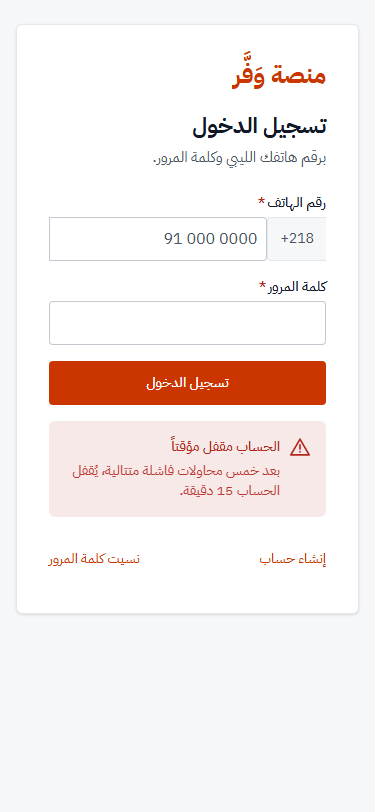
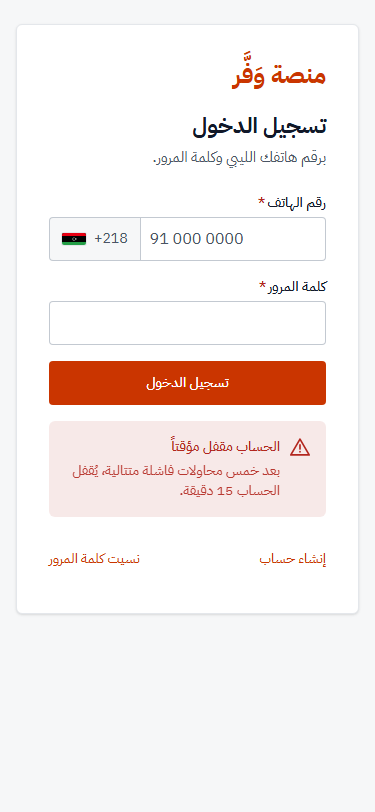
docs(design): recapture the phone-field references (ADR-181)

diff --git a/docs/decisions/volume-10.md b/docs/decisions/volume-10.md
@@ -1308,3 +1308,81 @@ inspection working copy is one bounded read. No schema change, and the format
 and safety suites keep their assertions. Review date: 2026-12-11 (R2's
 acceptance); R3's extraction work is the trigger to revisit the reading if a
 streaming parser enters the set.
+
+## ADR-181 — The phone field's country cell sits at the inline end, with the flag
+
+**Status**: Accepted — 2026-11-20. **Constitution version**: 7.1.0 (unchanged)
+**Owning directory**: `packages/ui/app/components/`, `packages/ui/public/flags/`
+**Owning feature**: R1 — identity and foundation.
+
+**Context.** R1's reference set renders the Libyan mobile number as two
+segments: a fixed `+218` cell and the number field. The lab drew the cell first
+in DOM order, so the RTL flex line placed it at the inline start (the right) and
+the number sat to its left. The owner asked for the cell at the inline end (the
+left) with a country flag. The old pair also inverted its corner radii: the
+input carries `direction: ltr`, so its logical `border-start-start-radius`
+resolves to the physical left, and the cell carried `dir="ltr"` for the same
+reason, so the group's outer corners were square and its inner corners rounded.
+Four pages — sign-up, sign-in, forgot step 1, and contact — carried identical
+copies of the markup and its styles. ADR-041 and FR-002/AC-002 forbid a
+dial-code selector, so the cell must stay a label: a chevron or a menu would
+reintroduce the selector the requirement removes.
+
+**Decision.**
+1. The phone control is one group of two segments: the number field at the
+   inline start (the right in RTL) and the country cell at the inline end (the
+   left). The cell closes the group and owns its outer corners.
+2. The cell carries the Libyan flag at its outer edge and the `+218` code next
+   to the divider. The flag is decorative (`alt=""`, and the cell is
+   `aria-hidden="true"`); the input keeps the label and the accessible name.
+   The flag is a vendored SVG (`packages/ui/public/flags/ly.svg`, public
+   domain, geometry untouched), not a font glyph and not an emoji.
+3. The number is one Latin run: the input is `direction: ltr` with
+   `text-align: start`, so the digits begin beside the cell and the group reads
+   `+218 91 000 0000`. The placeholder stays `91 000 0000`, and the input
+   carries `autocomplete="tel-national"` because the cell, not the field,
+   holds the country code — the contract's field rule
+   (`specs/001-identity-foundation/contracts/ui-contracts.md` §3.2) already
+   states both values.
+4. The cell is a label, never a selector: no chevron, no menu, no dial-code
+   choice (ADR-041; FR-002, AC-002).
+5. The divider is the field's own ring. The cell drops the border on that side
+   and uses the ring's tone (`--ui-border-accented`) for its other three
+   sides. Outer corners are rounded and inner corners square. Because logical
+   radii resolve against each element's own `direction`, each rule names the
+   side in that element's own axis: the input (`ltr`) squares its inline-start
+   corners, and the cell (`rtl`) rounds its inline-end corners.
+6. One component, `WfPhoneField`, replaces the four copies. Each page keeps its
+   `UFormField` and passes its model. The read-only displays (forgot step 2 and
+   the profile) are not part of the group and do not change.
+7. The reference set: the eleven images that show the field — nine R1 and the
+   two R11 contact captures — were recaptured on 2026-11-20 with the same
+   names, dimensions, URLs, and capture method. The four R1 done captures are
+   byte-identical. The pixel diff is confined to the phone group's box in all
+   eleven, so no other block moved.
+
+**Alternatives considered.**
+- *Keeping the cell at the inline start.* Rejected by the owner: the group then
+  reads `91 000 0000 +218`, and the flag would sit between the number and the
+  page edge instead of closing the control.
+- *A third segment for the flag, outside the cell.* Rejected: it adds a border
+  and a second divider for a decoration, and it reads as a second control.
+- *A native select or a chevron on the cell.* Rejected: FR-002/AC-002 remove
+  the dial-code selector, and a static cell with no affordance is the only
+  shape that does not imply one (ADR-041).
+- *A flag glyph or an emoji.* Rejected: Principle V forbids emoji, and an icon
+  set glyph is not a flag.
+- *Hiding the flag below a width.* Rejected: the cell has room at 375 (90.61px
+  wide), and the flag is the only country cue in a Libya-only product.
+
+**Consequences and migration/backfill.** The lab carried four copies of the
+markup and its styles — sign-up, sign-in, forgot step 1, and contact — and
+`WfPhoneField` replaces all four. The product carries three copies today, in
+`apps/web/app/components/auth/` (`SignUpForm.vue`, `SignInForm.vue`, and
+`RecoveryForm.vue`); all three already set `autocomplete="tel-national"`, and
+they take the group's order, flag, and radius rules from the same component when
+the product adopts it. No schema, API, or copy change. The reference manifest
+marks the eleven recaptured images with `recaptured`; the four done captures
+keep their 2026-10-27 date. ADR-041 is annotated by this record, not superseded.
+Review date: 2026-12-11 (R2's acceptance), or earlier if the conformance gate's
+baseline chain (ADR-129) reports a phone-group difference.

diff --git a/README.md b/README.md
@@ -21,7 +21,7 @@ continuous-integration gate exist and run; later slices build on them.
 | `docs/capacity-model.md` | The six-month load and ingestion envelope, the quota model, the deployment shape, and the verification plan (ADR-117, ADR-119, ADR-121, ADR-122). Planning authority; the constitution wins on every conflict. |
 | `docs/pdf-sample-analysis.md` | The preliminary 19-file PDF sample evidence: size, pages, text-layer quality, rows per page, OCR benchmark, and extraction problems (ADR-119). Evidence, not a source of rules. |
 | `docs/design/` | The Precision design contract's slice map and reference screenshots: 17 slices and 28 pages, with the 11 administrator pages marked as composed from the contract (ADR-128, ADR-129); the adopted departures — part-family cards, the retention trigger, and the shell's scroll-hide bar — are ADR-130, ADR-131, and ADR-132; the outline icon cut and the light default are ADR-137. Reference, not a visual baseline. |
-| `docs/DECISIONS.md` | The decision register's index and reading protocol (ADR-001 … ADR-180); the records with their alternatives and rationale live in `docs/decisions/volume-NN.md`. |
+| `docs/DECISIONS.md` | The decision register's index and reading protocol (ADR-001 … ADR-181); the records with their alternatives and rationale live in `docs/decisions/volume-NN.md`. |
 | `ROADMAP.md` | The MVP slice order. Names and orders slices; does not design them. |
 | `AGENTS.md` | Operating instructions for agent assistants. |
 | `governance-drift-check.mjs` | The committed read-only drift check: the two version sources, every live ADR range string, the decision-register volumes and their caps, the upstream manifest hashes, the two integrations, the structural counts the governance text states in prose, the design evidence's registration and citation, the template load map, the ADR index's constitution-version column, and the absence of the removed stylesheet and its constitution section. Runs on commit via `.githooks/pre-commit`; run it directly with `node governance-drift-check.mjs`. |
@@ -61,7 +61,7 @@ the project's binding templates and must not be replaced with the core ones.
 
 **Governance drift check.** `node governance-drift-check.mjs` (repository root)
 verifies the invariants the governance set cannot verify by discipline: the two
-version sources including the amended date, every live `ADR-001 … ADR-180` range
+version sources including the amended date, every live `ADR-001 … ADR-181` range
 string (in the required files, in the top-level `docs/` files, in the two Arabic
 mirrors, in the template overrides, and in the feature specifications), every ADR
 index row's anchor against its heading in the volume that holds it and every

diff --git a/docs/design/slice-map.md b/docs/design/slice-map.md
@@ -124,9 +124,10 @@ slice but no page here renders it.
 page title, one form card, and the links to the other bare pages (sign-in
 carries two, to sign-up and password recovery; sign-up and password recovery
 each carry one, back to sign-in). Sign Up carries the
-full name, the Libyan mobile number with a fixed `+218` and no dial-code
-selector, the password, the city combobox, and the optional shop name, then the
-one-time-code step and the done state. Sign In carries the mobile number and
+full name, the Libyan mobile number as one group — the field at the inline
+start, a fixed `+218` cell with the Libyan flag at the inline end, and no
+dial-code selector — the password, the city combobox, and the optional shop
+name, then the one-time-code step and the done state. Sign In carries the mobile number and
 the password, with the uniform failed-sign-in message. Forgot Password carries
 the mobile number, the code step, the new password, and the done state.
 
@@ -640,7 +641,9 @@ Captured: P0 for all seventeen non-administrator surfaces at 1280 and 375 light
 loading (Home, Parts, My Files, Notifications), refetch, full cart — at both
 widths (20), the filter panel at both widths (2), the dark appearance for Home,
 Parts, and Sign In (3), and the Home page scrolled at 375 with the bottom bar
-hidden (1). Total: 60 images, 2.31 MB (2.21 MiB).
+hidden (1). Total: 60 images, 2.32 MB (2.21 MiB). Eleven of them — the nine R1
+and two R11 images that show the phone field — were recaptured on 2026-11-20
+(ADR-181).
 
 Both rules the contract fixes have a lab reference: the outline icon cut and the
 light default are what every capture renders. The baseline is still generated in

diff --git a/docs/design/README.md b/docs/design/README.md
@@ -29,6 +29,14 @@ Capture drift: the screenshots were captured on 2026-10-27. The lab's shared
 loading references predate those tokens. The layer records the final values;
 the screenshots remain evidence, not a baseline.
 
+Recapture (2026-11-20, ADR-181): the eleven images that show the phone field —
+nine in R1 and the two Contact captures in R11 — were recaptured after the lab's
+phone group moved its `+218` cell to the inline end and gained the Libyan flag.
+The manifest marks each with `recaptured`. The four R1 done captures were
+recaptured as well and are byte-identical to the 2026-10-27 files, so their
+manifest entries keep the original date. The pixel diff is confined to the phone
+group's box in all eleven; no other block moved.
+
 ## Reference versus baseline
 
 - A **reference** is a screenshot in `screenshots/`, named by `manifest.json`.
@@ -47,8 +55,9 @@ the screenshots remain evidence, not a baseline.
   composed from the contract, because the lab has no administrator application.
 - `screenshots/` — the reference images, named
   `<slice>/<page>--<state>--<width>--<theme>.png`.
-- `screenshots/manifest.json` — the manifest: kind, source, capture date, and
-  one entry per image.
+- `screenshots/manifest.json` — the manifest: kind, source, capture date, one
+  entry per image, and the recapture date on an image recaptured after the
+  initial pass.
 
 ## Reading order
 

diff --git a/docs/DECISIONS.md b/docs/DECISIONS.md
@@ -222,6 +222,7 @@ constitution's Documentation section and enforced by `governance-drift-check.mjs
 | [ADR-178](decisions/volume-10.md#adr-178--the-bundled-commands-carry-the-rendered-front-matter-not-upstreams-template) | The bundled commands carry the rendered front-matter, not upstream's template | 2026-11-16 | 7.1.0 (unchanged) |
 | [ADR-179](decisions/volume-10.md#adr-179--the-tasks-template-is-the-single-source-of-the-task-lists-binding-rules) | The tasks template is the single source of the task list's binding rules | 2026-11-16 | 7.1.0 (unchanged) |
 | [ADR-180](decisions/volume-10.md#adr-180--the-intakes-bounded-inspection-working-set) | The intake's bounded inspection working set | 2026-11-19 | 7.1.0 (unchanged) |
+| [ADR-181](decisions/volume-10.md#adr-181--the-phone-fields-country-cell-sits-at-the-inline-end-with-the-flag) | The phone field's country cell sits at the inline end, with the flag | 2026-11-20 | 7.1.0 (unchanged) |
 
 **Design-system note (ADR-093).** Every provision of the removed custom design
 system in an earlier record is superseded by ADR-093. Their other provisions,

diff --git a/ROADMAP.md b/ROADMAP.md
@@ -41,7 +41,7 @@ templates.
 | Approved technology stack | `.specify/memory/constitution.md` (Technology Standards); `Project-Technologies.txt` mirrors it |
 | UI foundation (component library and project layer) | `.specify/memory/constitution.md` → Principle IX; ADR-097 fixes the Wafar UI layer's path (`packages/ui`); R1 builds it through its plan and consumes it; ADR-098 records the visual foundation, ADR-128 records the Precision contract that annotates it, and ADR-137 fixes the appearance (outline icon cut, light default) |
 | Product definition (roles, pages, acceptance criteria) | `Core-Project.txt` |
-| Accepted decisions | the decision register: `docs/DECISIONS.md` (index, ADR-001 … ADR-180) and `docs/decisions/` (records) |
+| Accepted decisions | the decision register: `docs/DECISIONS.md` (index, ADR-001 … ADR-181) and `docs/decisions/` (records) |
 
 A slice named "Architecture", "UI Foundation", "Tech Stack", or "Conventions"
 would be a classification error: it would tell the agent that a project-wide

diff --git a/specs/001-identity-foundation/plan.md b/specs/001-identity-foundation/plan.md
@@ -208,7 +208,8 @@ inventory" paragraph states the complete set once; every user-facing string is
 in that set and a string outside it is not delivered. The R1 capture set under
 `docs/design/screenshots/R1/` — thirteen images, each with an entry in
 `docs/design/screenshots/manifest.json` (`kind: reference`, source "design lab,
-Precision model", captured 2026-10-27) — is evidence of the reference
+Precision model", captured 2026-10-27; nine recaptured 2026-11-20, ADR-181) —
+is evidence of the reference
 composition and appearance only: it governs no string, and where a capture and
 the contract differ the contract wins (the diacritics rule and the lab's
 lockout alert are the recorded differences). The capture set does not show the

diff --git a/AGENTS.md b/AGENTS.md
@@ -191,7 +191,7 @@ and its `requires.integrations.any` list must stay correctly nested under
 in the repository root is a read-only, dependency-free Node script that verifies
 the invariants the governance set cannot verify by discipline: the constitution
 footer's version and amended date against `.specify/memory/version.json`; every
-live `ADR-001 … ADR-180` range string — in the required files, in the top-level
+live `ADR-001 … ADR-181` range string — in the required files, in the top-level
 `docs/` files, in the two Arabic mirrors, in the template overrides, and in the
 feature specifications — against the last row of
 `docs/DECISIONS.md`'s index; every ADR index row's anchor against its heading in

diff --git a/specs/002-file-intake/spec.md b/specs/002-file-intake/spec.md
@@ -42,7 +42,7 @@ implementation; the implementation itself is pending.
         - `ROADMAP.md` — the slice's scope, dependencies, and what this slice
           does not do (ADR-134).
         - the decision register — `docs/DECISIONS.md`'s index and the volumes
-          under `docs/decisions/` (ADR-001 … ADR-180). A specification that
+          under `docs/decisions/` (ADR-001 … ADR-181). A specification that
           contradicts one is a blocking defect.
         - `docs/domain-model.md` — the entities a Key Entities section may name,
           and the invariants such a specification MUST NOT contradict. A

diff --git a/specs/001-identity-foundation/spec.md b/specs/001-identity-foundation/spec.md
@@ -35,7 +35,7 @@
          permissions, the page list, the file-processing sequence, and the
          statements the product already makes as acceptance criteria.
        - the decision register — `docs/DECISIONS.md`'s index and the volumes
-         under `docs/decisions/` (ADR-001 … ADR-180). A specification that
+         under `docs/decisions/` (ADR-001 … ADR-181). A specification that
          contradicts one is a blocking defect.
        - `docs/design/slice-map.md` — the slice's entry: its blocks and order,
          its states, its copy, and the open questions this specification must

diff --git a/.specify/templates/overrides/spec-template.md b/.specify/templates/overrides/spec-template.md
@@ -41,7 +41,7 @@
        - `ROADMAP.md` — the slice's scope, dependencies, and what this slice
          does not do (ADR-134).
        - the decision register — `docs/DECISIONS.md`'s index and the volumes
-         under `docs/decisions/` (ADR-001 … ADR-180). A specification that
+         under `docs/decisions/` (ADR-001 … ADR-181). A specification that
          contradicts one is a blocking defect.
        - `docs/domain-model.md` — the entities a Key Entities section may name,
          and the invariants such a specification MUST NOT contradict. A

diff --git a/specs/002-file-intake/checklists/formats.md b/specs/002-file-intake/checklists/formats.md
@@ -30,7 +30,7 @@ open question are under § Audit Record and Open Questions (2026-11-17).
        a source of rules, and the binding version is the slice's specification
        (ADR-134).
      - the decision register - `docs/DECISIONS.md`'s index and the volumes
-       under `docs/decisions/` (ADR-001 … ADR-180).
+       under `docs/decisions/` (ADR-001 … ADR-181).
        An item that contradicts one is a blocking defect.
      - `docs/domain-model.md` - the entities a checklist may reference,
        and the invariants it MUST NOT contradict.
